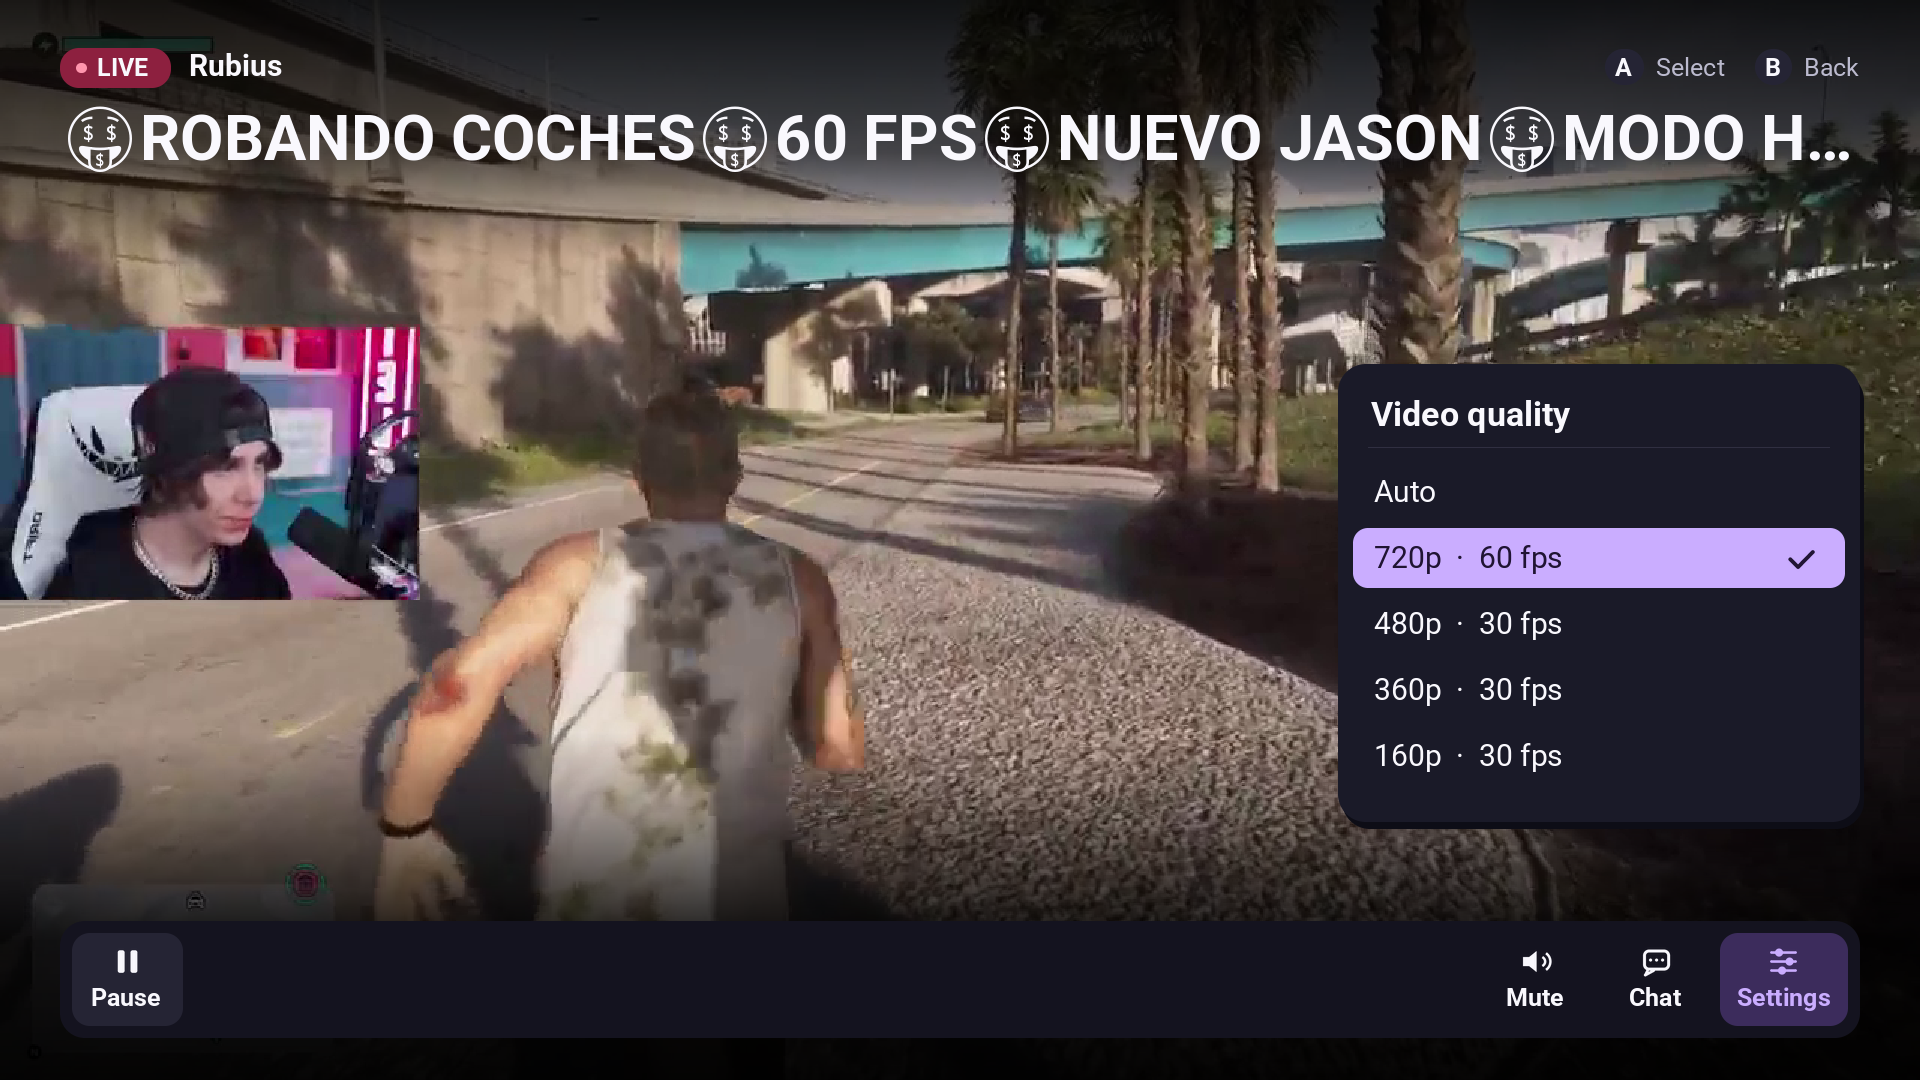
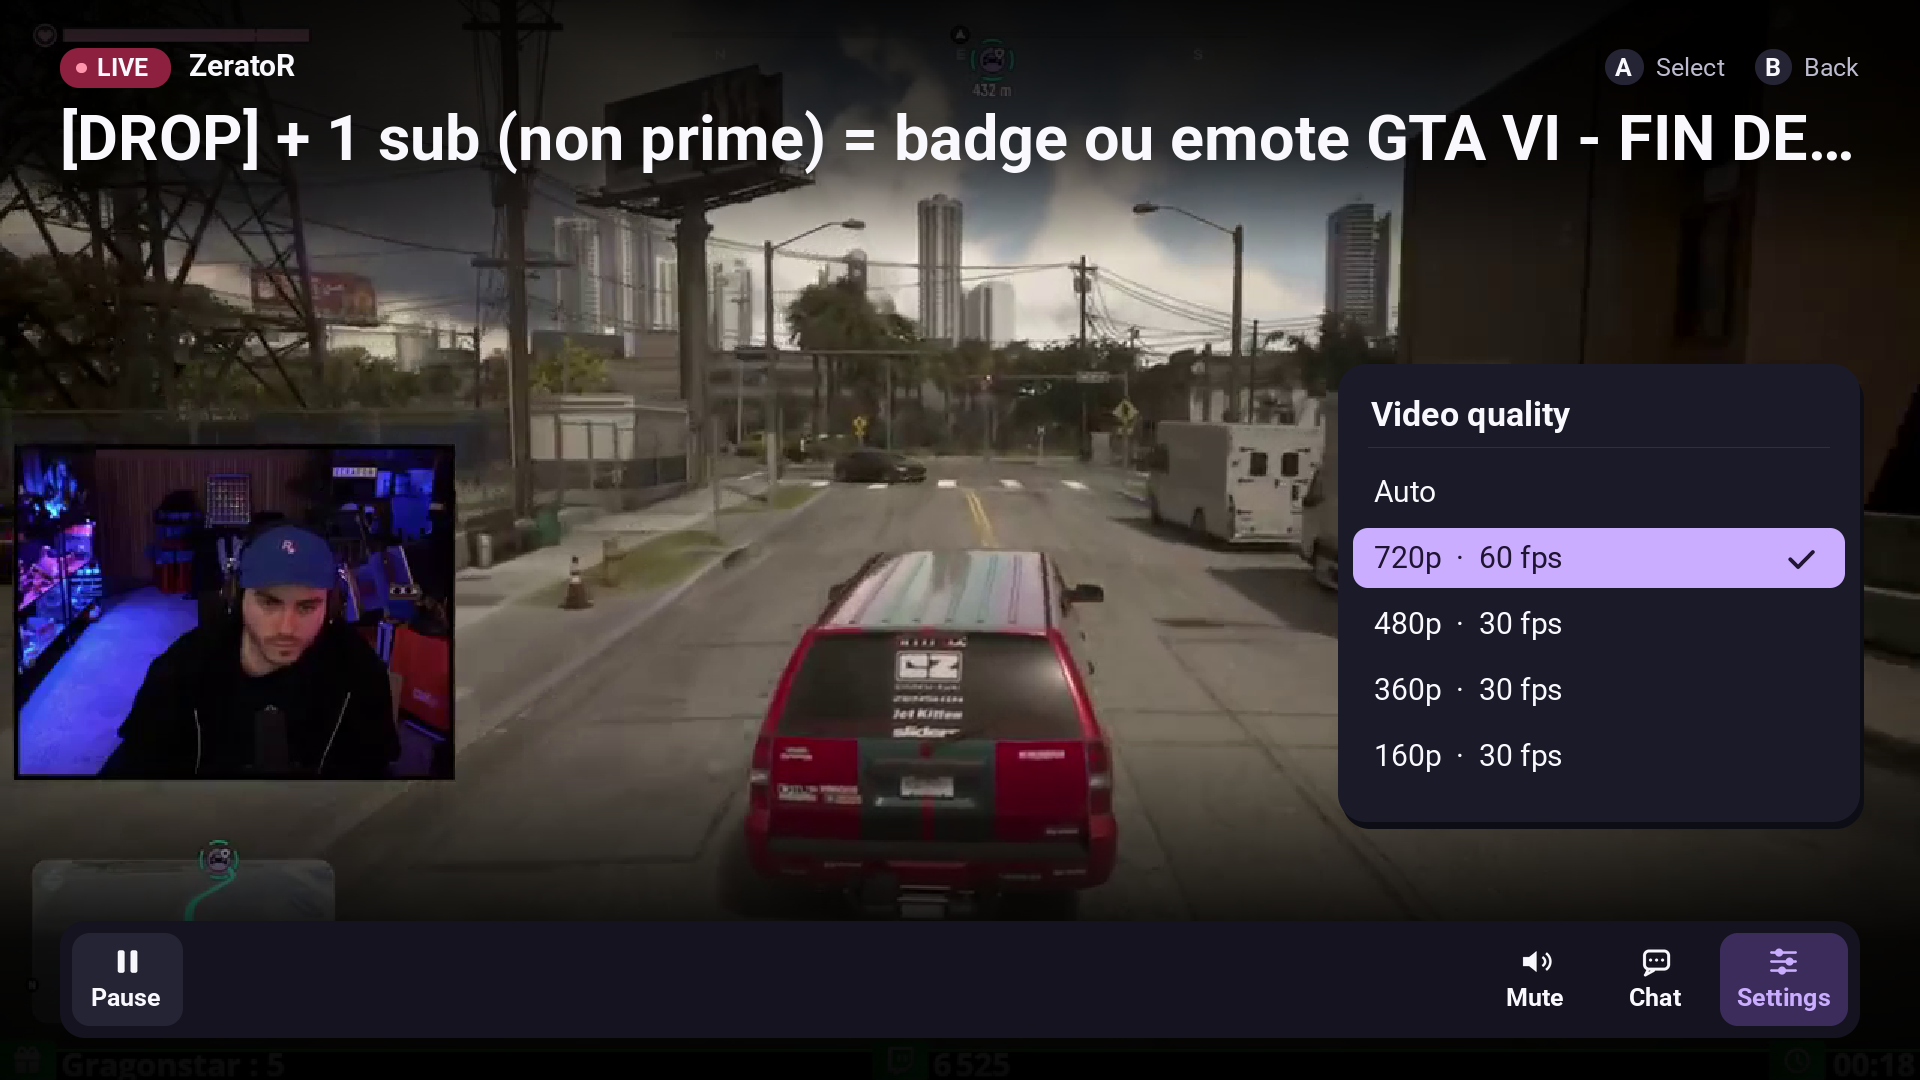
Refresh the video quality screenshot from a different GTA VI stream

diff --git a/docs/media-sources.md b/docs/media-sources.md
@@ -2,4 +2,4 @@
 
 The gallery was rendered locally with the IZtwiNS2 0.11.0 interface. Catalog data and thumbnails are from [Twitch](https://www.twitch.tv/directory).
 
-The player screenshots use frames from the [Rubius](https://www.twitch.tv/rubius) live broadcast in the [Grand Theft Auto VI category](https://www.twitch.tv/directory/category/grand-theft-auto-vi), captured on November 25, 2026 from its 1280×720, 60 fps rendition. The chat pane shows a selection of public messages from the same channel. Grand Theft Auto VI is a Rockstar Games title.
+The player screenshots use frames from the [Grand Theft Auto VI category](https://www.twitch.tv/directory/category/grand-theft-auto-vi), captured on November 25, 2026 from 1280×720, 60 fps renditions. The screenshot with chat uses the [Rubius](https://www.twitch.tv/rubius) broadcast and public messages from his channel. The screenshot with the video quality menu uses the [ZeratoR](https://www.twitch.tv/zerator) broadcast. Grand Theft Auto VI is a Rockstar Games title.
